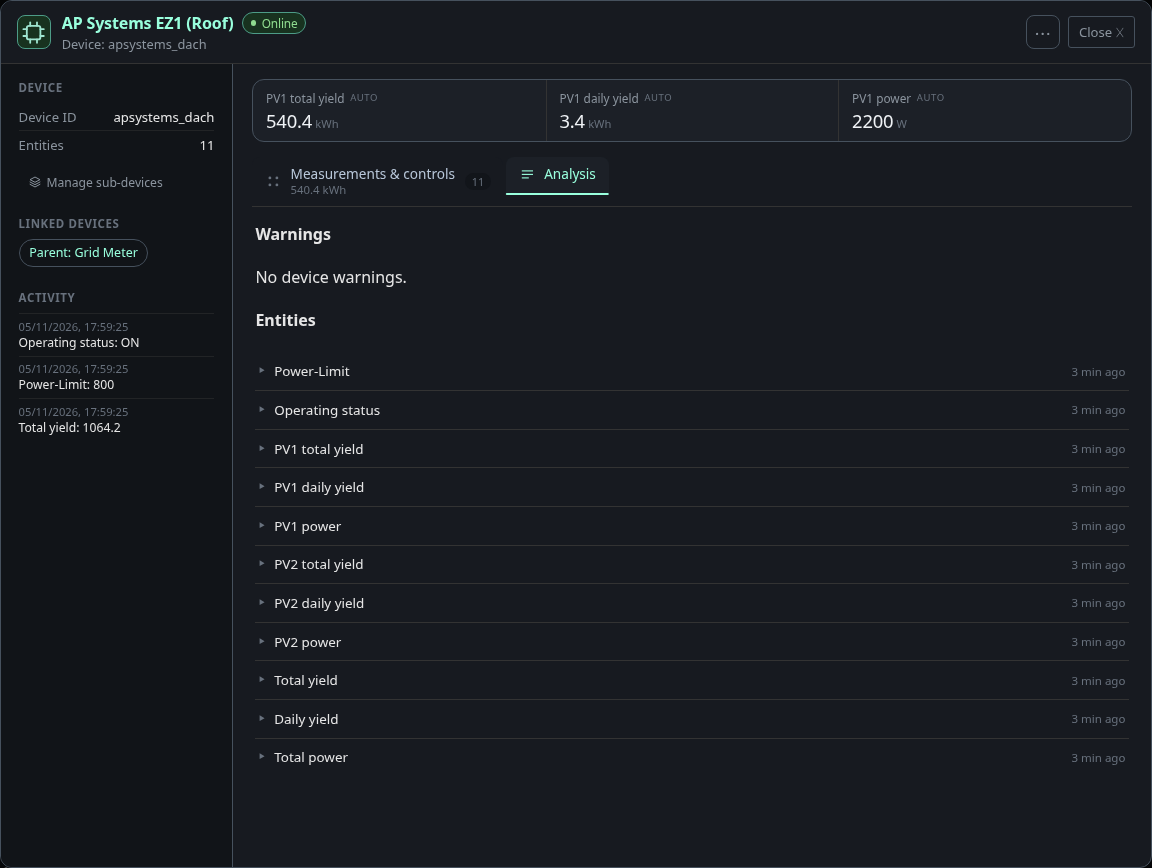
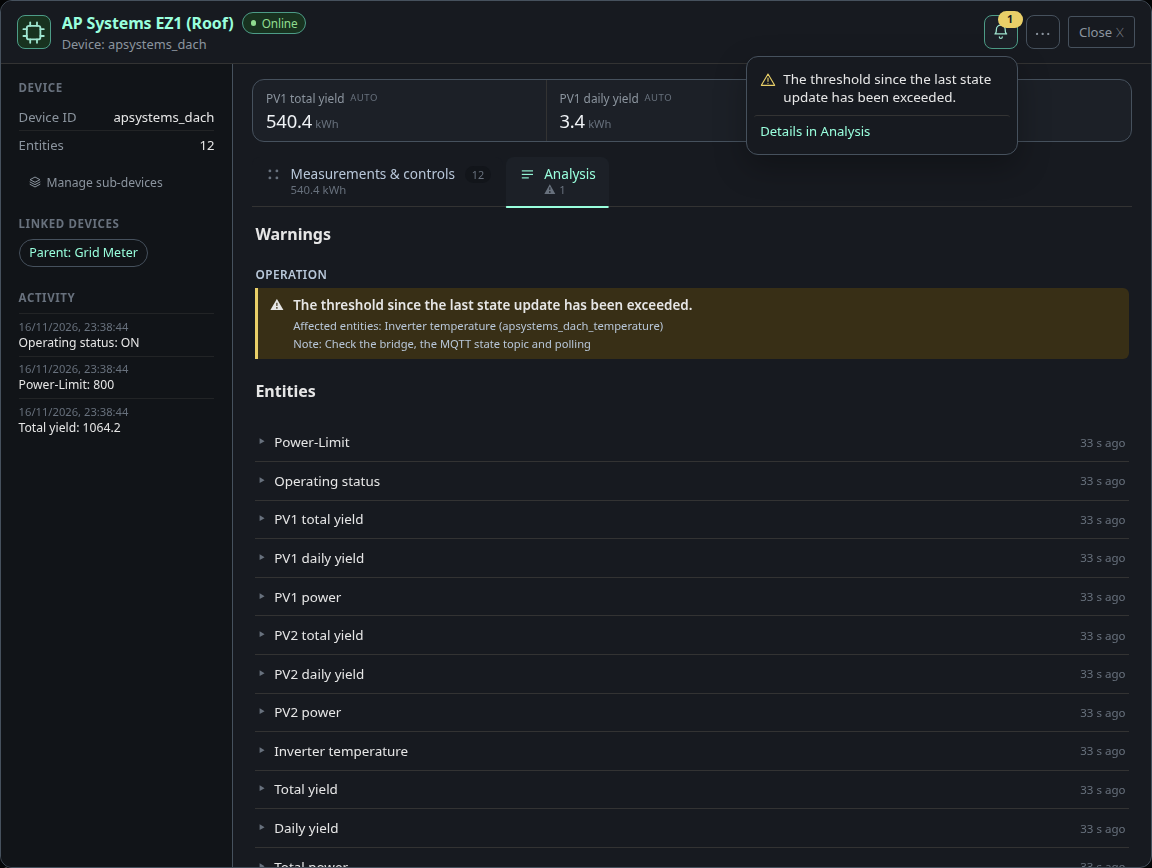
docs(dashboard): show the hint bell in the device dialog image and add the paired Home Assistant section
The docs fixture gets an inverter temperature on the AP Systems device that never sends a value. The device dialog images now show the hint bell with one hint, and the device list image the extra entity. The screenshot script also pairs the fake companion before it shoots a new image of the Home Assistant section, so the switch for HTTPS actions is visible. Both are described on the device dialog and users pages.

diff --git a/docs/dashboard/device-modal.md b/docs/dashboard/device-modal.md
@@ -92,6 +92,10 @@ each warning. Users with the [device analysis right](#rights) also get a
 **Details in Analysis** link there, which opens the Analysis tab at the
 **Operation** group. Escape closes the popover and nothing else.
 
+The screenshot at the top of this page shows the bell: one value of the device,
+the inverter temperature, has not been updated, so the device has one hint. The
+screenshot of the [Analysis tab](#analysis) shows the popover of that hint.
+
 ## Analysis
 
 The last tab is labelled **Analysis**. It is only shown to users with the

diff --git a/docs/dashboard/settings-users.md b/docs/dashboard/settings-users.md
@@ -125,6 +125,8 @@ dashboard:
    [Setup and options](../ha/companion-setup.md#pair-with-the-dashboard).
 3. The section shows *paired* with the date and the last connection.
 
+![The Home Assistant section of a paired companion with the switch for HTTPS actions](../images/dashboard-settings-users-home-assistant.png)
+
 Every Home Assistant user who signs in gets a card tagged *Home Assistant*.
 It follows the preset HA administrators or HA users. **Set permissions
 individually** gives the account its own list. Its password is changed in Home
